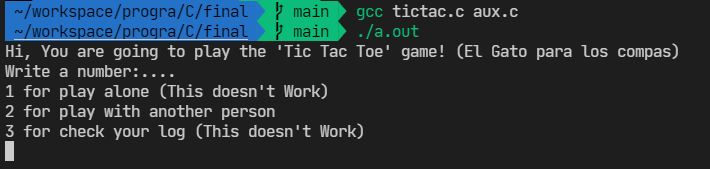
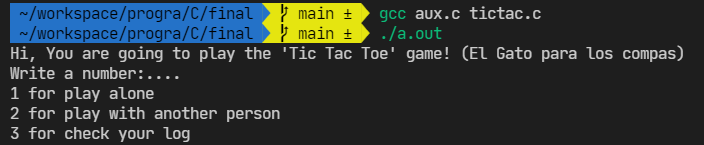
New Look&Feel

Changed region(s): [[0.0, 0.0, 0.9688, 0.5793], [0.0, 0.6069, 0.5312, 0.9931]]

diff --git a/final/aux.c b/final/aux.c
@@ -7,7 +7,7 @@ int welcome() {
     int number;
     printf("Hi, You are going to play the 'Tic Tac Toe' game! (El Gato para los compas)\n");
     // I modified the next line
-    printf("Write a number:....\n1 for play alone (This doesn't Work)\n2 for play with another person\n3 for check your log (This doesn't Work)\n");
+    printf("Write a number:....\n1 for play alone\n2 for play with another person\n3 for check your log\n");
     scanf("%d", &number);
     return number;
 }
